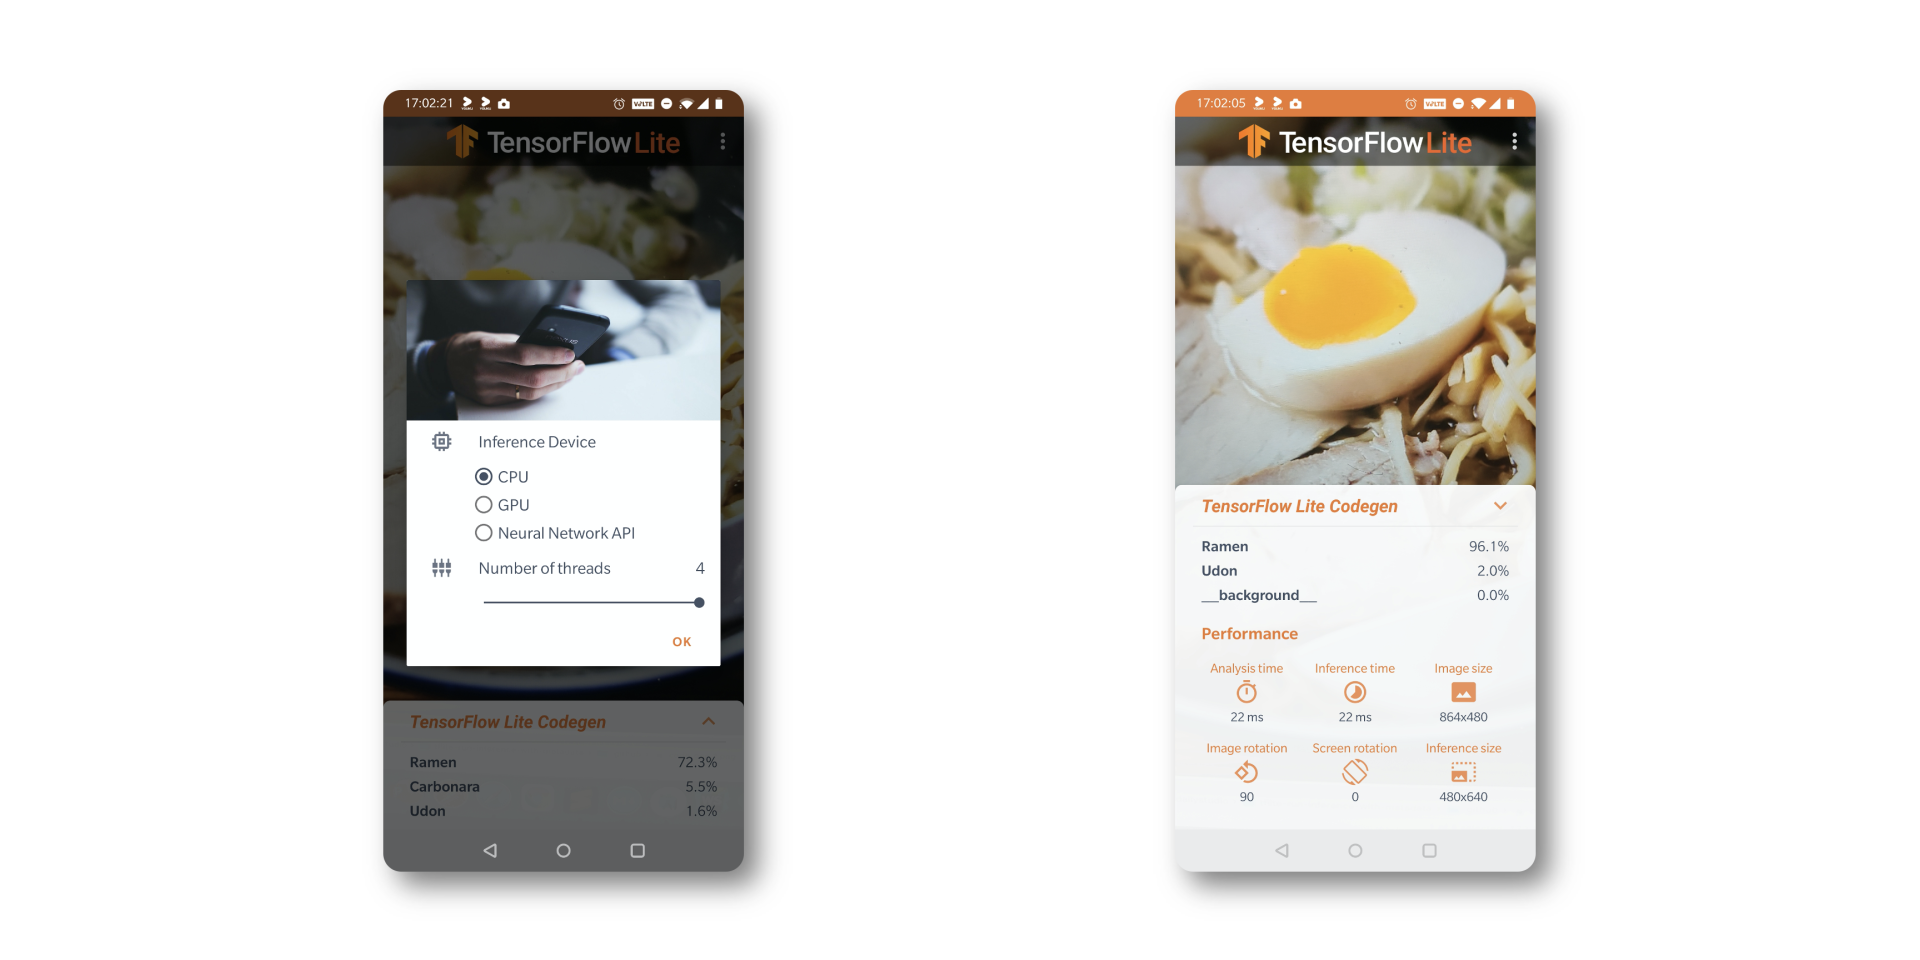
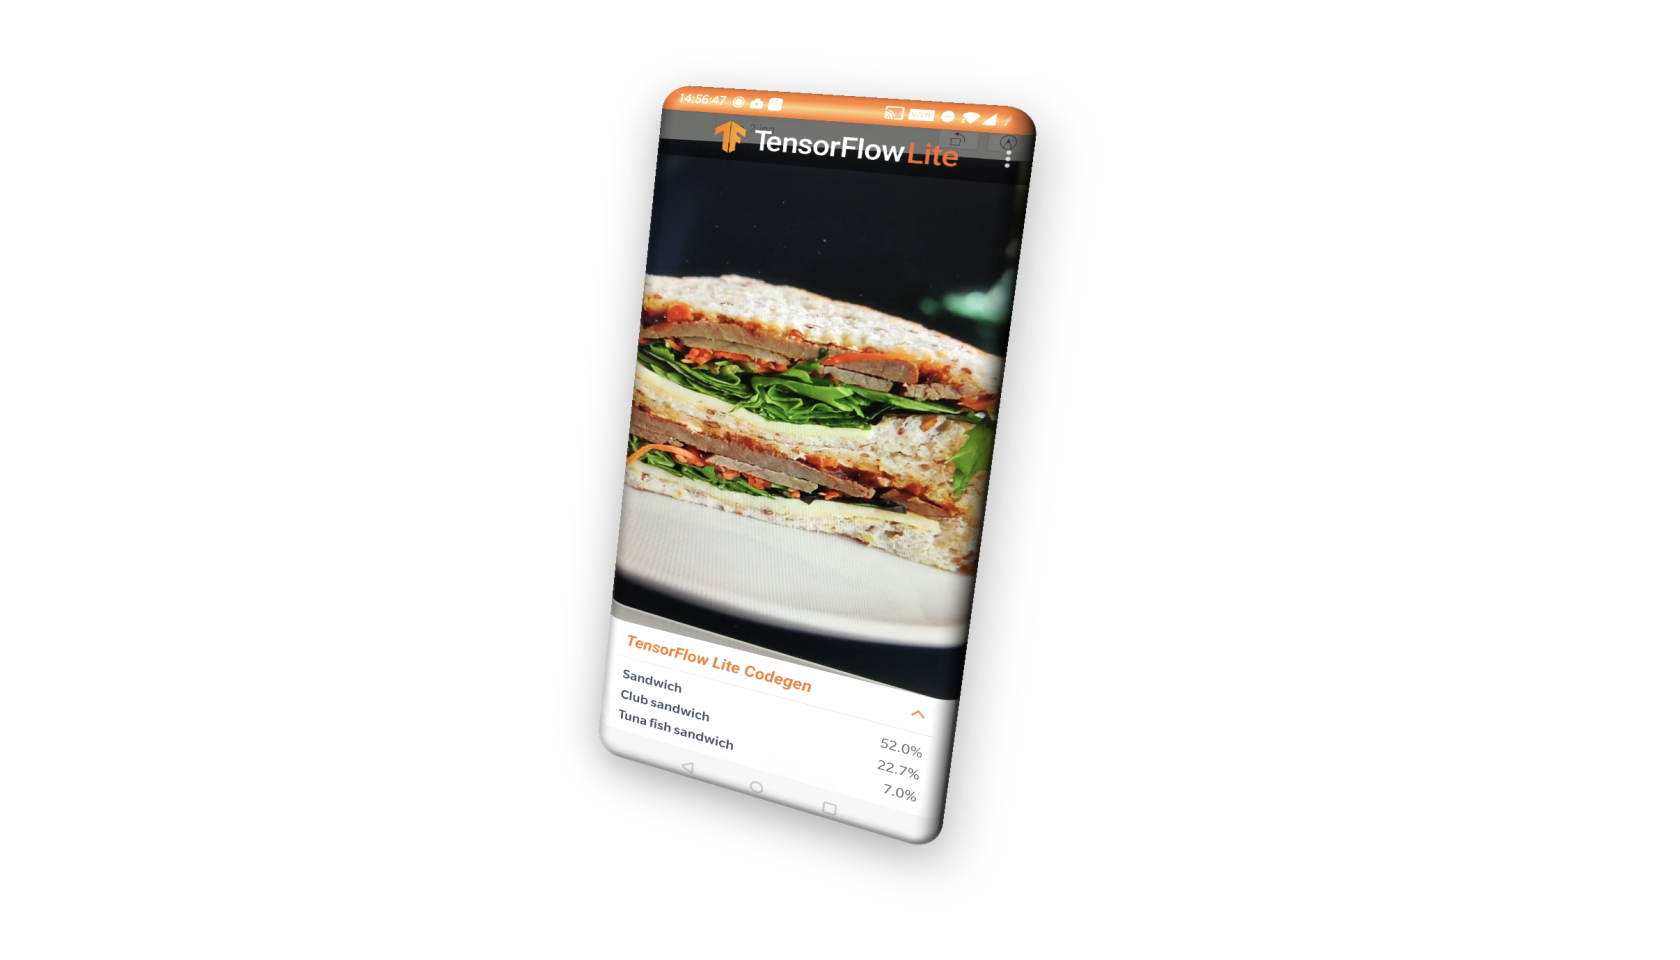
[tflite-task-api][DEV]: update README.md

diff --git a/tflite-task-api/README.md b/tflite-task-api/README.md
@@ -1,0 +1,124 @@
+# TensorFlow Lite Task Library
+
+TensorFlow Lite Task Library contains a set of powerful and easy-to-use task-specific libraries for app developers to create ML experiences with TFLite. It provides optimized out-of-box model interfaces for popular machine learning tasks, such as image classification, question and answer, etc. The model interfaces are specifically designed for each task to achieve the best performance and usability. 
+
+## Preparation
+Before getting started, you need to assure the following things prerequisites are ready:
+
+- Android Studio 4.1 or later
+- An Android device (mobile phones are better) with Android 5.0+ (API Level 21)
+- TensorFlow Lite model - [insects_v1](https://tfhub.dev/google/aiy/vision/classifier/insects_V1/1)
+
+> In the following steps, we assume that 
+>
+> - you clone the repository into this specific directory, **/Volumes/Workspace/gitrepos/dailystudio/tflite-run-inference-with-metadata/** 
+> - you put models in the download directory, **/Volumes/Workspace/sandbox/tflite-example/models/** 
+> - your target working directory is **/Volumes/Workspace/sandbox/tflite-example/**
+
+## Let's go
+
+### Initialize the project from the boilerplate
+
+Copy the boilerplate project into your destination and import it into Android Studio.
+
+``` Shell
+$ cd /Volumes/Workspace/sandbox/tflite-example/
+$ cp -a /Volumes/Workspace/gitrepos/dailystudio/tflite-run-inference-with-metadata/boilerplate tflite-task-api
+```
+
+### Add dependency of TensorFlow Lite Task Library
+Adding Task Library dependency in **app/build.gradle**.
+
+```Groovy
+implementation 'org.tensorflow:tensorflow-lite-task-vision:0.1.0'
+```
+
+### Edit the code
+
+Modify the implementation of **ImageClassifierAnalyzer** to run the inference of the model.
+
+Changing classifier declaration to your specific type:
+
+```Kotlin
+private var classifier: ImageClassifier? = null
+```
+
+In **analyzeFrame()**, creating an instance of classifier
+
+```Kotlin
+    private fun createModel(context: Context): ImageClassifier {
+        val numOfThreads = InferenceSettingsPrefs.instance.numberOfThreads
+
+        val builder: ImageClassifierOptions.Builder =
+            ImageClassifierOptions.builder()
+                .setMaxResults(MAX_RESULTS)
+                .setNumThreads(numOfThreads)
+                .setDisplayNamesLocale("en")
+
+        val modelFile: MappedByteBuffer? = ModelUtils.loadModelFile(
+            context.assets, TF_LITE_MODEL_FILE
+        )
+
+        return ImageClassifier.createFromBufferAndOptions(modelFile, builder.build())
+    }
+```
+
+And call classify() to do the inference.
+
+```Kotlin
+...
+    val categories: MutableList<Category> = mutableListOf()
+
+    synchronized(lock) {
+        classifier = classifier ?: createModel(context)
+
+        val classifications = classifier?.classify(tImage)
+
+        classifications?.let {
+            categories.addAll(it[0].categories)
+
+            categories.sortByDescending { category ->
+                category.score
+            }
+        }
+    }
+...
+```
+
+### Launch the app
+
+Launch the app and you will see the results,
+![](../.github/task_api_1.png)
+
+### Remove useless settings
+By default, **InferenceSettingsFragment** includes two settings options:
+
+- Inference Device
+- Number of threads
+
+Since TensorFlow Lite Task Library does not support the GPU delegate, we need to remove useless settings from the default project template. We remove **Inference Device** and keep **Number of threads**.
+
+Create a new class, which is named **SimpleInferenceSettingsFragment**, and add the following implementation:
+
+```Kotlin
+class SimpleInferenceSettingsFragment: InferenceSettingsFragment() {
+
+    override fun createSettings(context: Context): Array<AbsSetting> {
+        val oldSettings = super.createSettings(context)
+
+        return arrayOf(oldSettings[1])
+    }
+
+}
+```
+
+Re-launch the app, you will see:
+
+![](../.github/task_api_2.png)
+
+## Tips
+
+There are a few tips when you should notice:
+
+- TensorFlow Lite Task Library does not a simple wrapper of TensorFlow Lite Support Library. Each function in Task Library has a relative JNI implementation underline. That means **Task Library does not support GPU delegate**. But, you needn't worry about its performance. Its data processing would take no more than a few milliseconds.
+- If you want your own Lite model to fit the Task Library well. You have to **check the compatibility of your model**. There is a model compatibility requirements section of each Task Library's documentation.

diff --git a/codegen/README.md b/codegen/README.md
@@ -52,6 +52,7 @@ $ tflite_codegen --model ../models/lite-model_aiy_vision_classifier_food_V1_1.tf
 ```
 
 The library project will be generated under directory **libmodel** and the structure  will like this:
+![](../.github/code_gen_1.png)
 
 ### Add dependency of the library project
 Include library project in **settings.gradle**
@@ -127,7 +128,7 @@ String probabilityLabelsFileName =
 ### Launch the app
 
 Launch the app and you will see the results,
-![](../.github/code_gen_1.png)
+![](../.github/code_gen_2.png)
 
 ### Support GPU and multi-threads inference
 Generated code allows developers to accelerate the inference through the use of delegates and the number of threads.
@@ -186,7 +187,7 @@ You should close the classifier when the settings are changed. So that, the new 
 
 Re-launch the app, you will see:
 
-![](../.github/code_gen_2.png)
+![](../.github/code_gen_3.png)
 
 ## Tips
 
